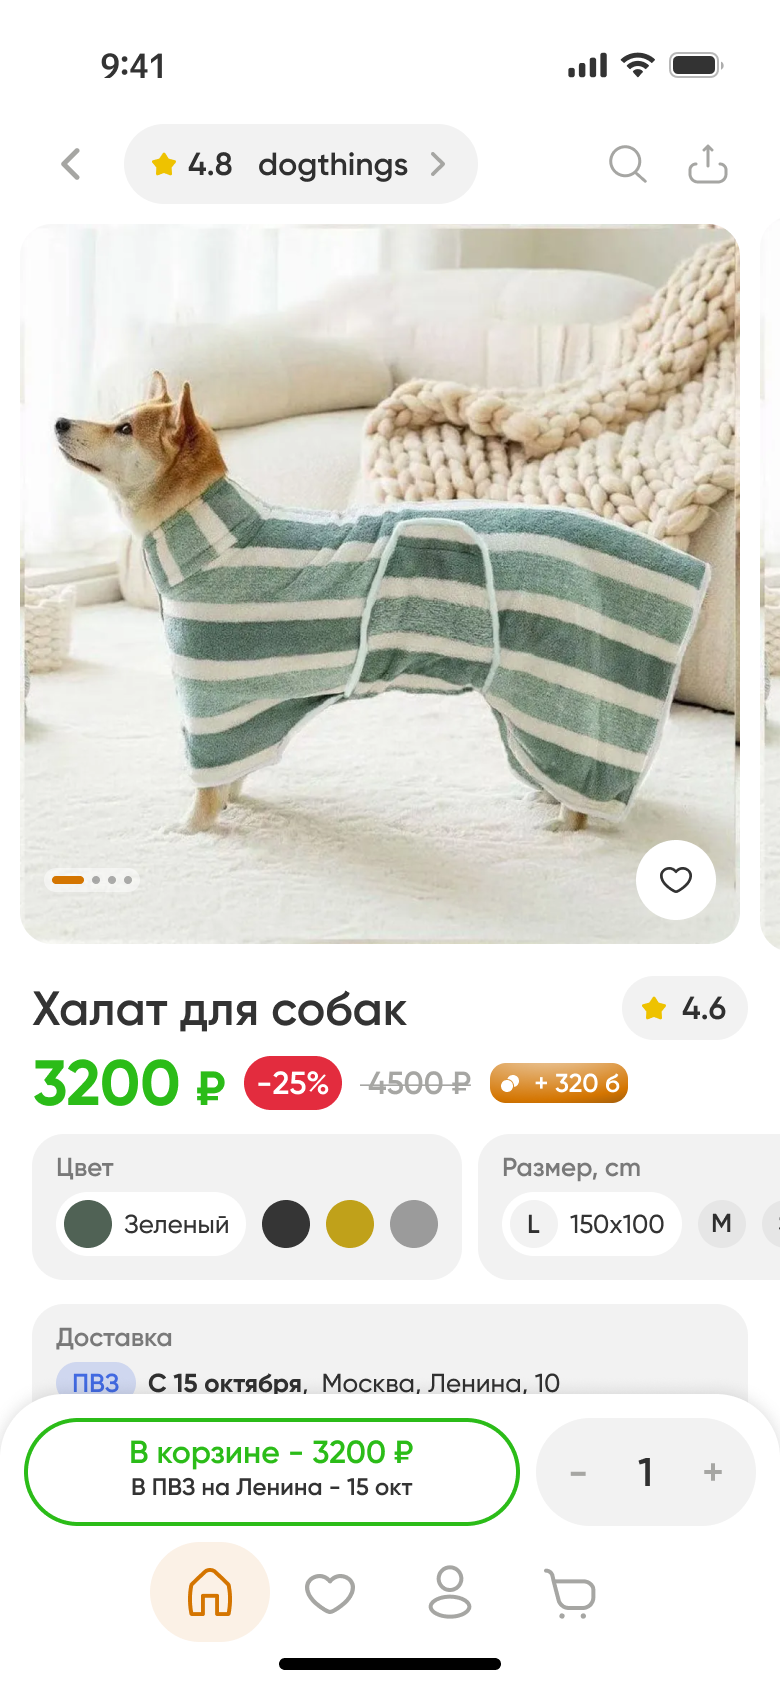
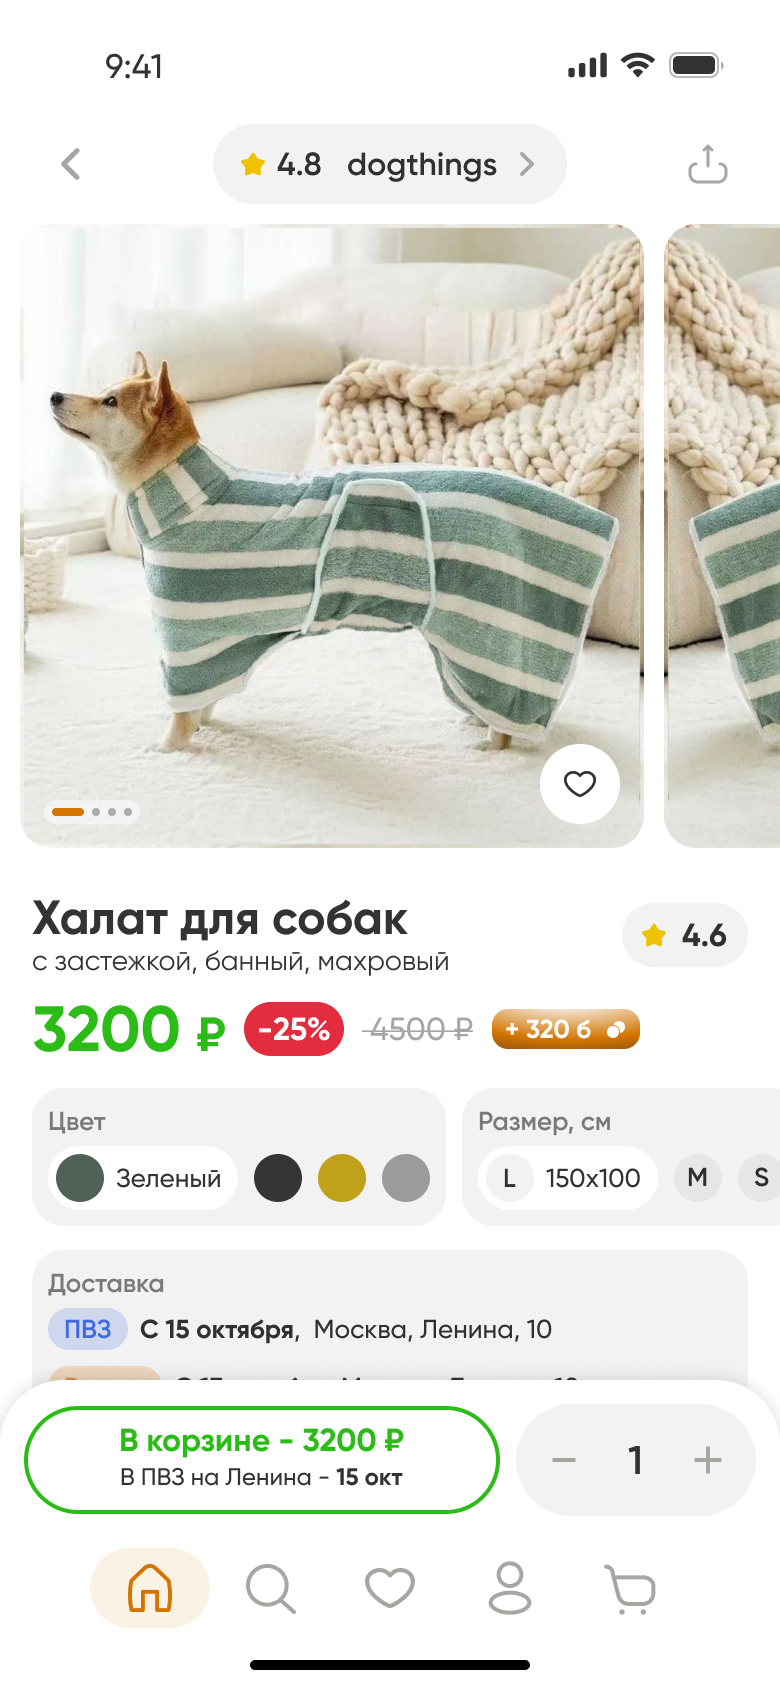
Refine UI concepts gallery

diff --git a/index.html b/index.html
@@ -32,7 +32,7 @@
       .site-loader{position:fixed;inset:0;z-index:10000;display:grid;place-items:center;background:#fff;color:#090909;transition:opacity .75s ease,visibility .75s ease}.site-loader__inner{position:relative;width:min(360px,92vw);aspect-ratio:1}.site-loader__orbit{position:absolute;inset:0;transform-origin:50% 50%}.site-loader__dot{position:absolute;top:50%;left:50%;width:var(--size);height:var(--size);margin:calc(var(--size)/-2);transform:translate(var(--x),var(--y));transition:transform .78s cubic-bezier(.4,0,.15,1)}.site-loader__dot i{display:block;width:100%;height:100%;border-radius:50%;background:#050505;animation:loader-dot-float var(--speed) ease-in-out var(--delay) infinite alternate}.site-loader__dot:nth-child(1){--size:9px;--x:-118px;--y:-80px;--speed:1.7s;--delay:-.5s}.site-loader__dot:nth-child(2){--size:7px;--x:-64px;--y:-116px;--speed:2.2s;--delay:-1.1s}.site-loader__dot:nth-child(3){--size:13px;--x:6px;--y:-78px;--speed:1.9s;--delay:-.2s}.site-loader__dot:nth-child(4){--size:16px;--x:112px;--y:-94px;--speed:2.4s;--delay:-1.6s}.site-loader__dot:nth-child(5){--size:12px;--x:92px;--y:17px;--speed:1.8s;--delay:-.8s}.site-loader__dot:nth-child(6){--size:11px;--x:93px;--y:104px;--speed:2.1s;--delay:-1.4s}.site-loader__dot:nth-child(7){--size:7px;--x:10px;--y:139px;--speed:1.6s;--delay:-.3s}.site-loader__dot:nth-child(8){--size:15px;--x:-91px;--y:113px;--speed:2.3s;--delay:-1.8s}.site-loader__dot:nth-child(9){--size:9px;--x:-137px;--y:30px;--speed:1.9s;--delay:-.9s}.site-loader__dot:nth-child(10){--size:7px;--x:-151px;--y:-17px;--speed:2.5s;--delay:-1.2s}.site-loader__copy{position:absolute;inset:0;display:flex;flex-direction:column;align-items:center;justify-content:center;gap:10px;text-align:center}.site-loader__label{font:400 clamp(20px,2.2vw,28px)/1.2 Manrope,Arial,sans-serif;transition:opacity .3s ease,transform .3s ease}.site-loader__value{font:800 clamp(25px,2.6vw,34px)/1 Machina,Manrope,Arial,sans-serif;letter-spacing:-.04em}.site-loader.is-complete .site-loader__copy{gap:0}.site-loader.is-complete .site-loader__label{position:absolute;opacity:0;transform:translateY(-5px)}.site-loader.is-complete .site-loader__orbit{animation:loader-orbit-spin 1.35s linear .72s infinite}.site-loader.is-complete .site-loader__dot:nth-child(1){transform:rotate(0deg) translateY(-86px)}.site-loader.is-complete .site-loader__dot:nth-child(2){transform:rotate(36deg) translateY(-86px)}.site-loader.is-complete .site-loader__dot:nth-child(3){transform:rotate(72deg) translateY(-86px)}.site-loader.is-complete .site-loader__dot:nth-child(4){transform:rotate(108deg) translateY(-86px)}.site-loader.is-complete .site-loader__dot:nth-child(5){transform:rotate(144deg) translateY(-86px)}.site-loader.is-complete .site-loader__dot:nth-child(6){transform:rotate(180deg) translateY(-86px)}.site-loader.is-complete .site-loader__dot:nth-child(7){transform:rotate(216deg) translateY(-86px)}.site-loader.is-complete .site-loader__dot:nth-child(8){transform:rotate(252deg) translateY(-86px)}.site-loader.is-complete .site-loader__dot:nth-child(9){transform:rotate(288deg) translateY(-86px)}.site-loader.is-complete .site-loader__dot:nth-child(10){transform:rotate(324deg) translateY(-86px)}.site-loader.is-complete .site-loader__dot i{animation:none}.site-loader.is-hidden{opacity:0;visibility:hidden;pointer-events:none}.js body.is-loading{overflow:hidden}@keyframes loader-dot-float{from{transform:translate(-8px,-5px)}to{transform:translate(9px,7px)}}@keyframes loader-orbit-spin{to{transform:rotate(360deg)}}@media(max-width:520px){.site-loader__inner{width:min(310px,92vw)}.site-loader.is-complete .site-loader__dot{--loader-radius:72px}.site-loader.is-complete .site-loader__dot:nth-child(n){transform:rotate(calc((var(--dot-index,1) - 1)*36deg)) translateY(-72px)}}@media(prefers-reduced-motion:reduce){.site-loader,.site-loader__dot{transition:none}.site-loader__dot i,.site-loader.is-complete .site-loader__orbit{animation:none}}
     </style>
     <script defer src="./src/loader.js?v=3"></script>
-    <link rel="stylesheet" href="./src/style.css?v=67" />
+    <link rel="stylesheet" href="./src/style.css?v=75" />
     <title>Леонид Зуев — продуктовый дизайнер</title>
 
     <script defer src="./src/cookie-consent.js?v=1"></script>
@@ -109,8 +109,9 @@
         <section class="portfolio-panel" id="portfolio" aria-label="Работы">
           <div class="portfolio-tabs" role="tablist" aria-label="Разделы работ">
             <button class="is-active" id="portfolio-cases-tab" type="button" role="tab" aria-selected="true" aria-controls="portfolio-cases" data-work-tab="cases">Кейсы</button>
-            <button id="portfolio-shots-tab" type="button" role="tab" aria-selected="false" aria-controls="portfolio-shots" data-work-tab="shots">Шоты</button>
+            <button id="portfolio-shots-tab" type="button" role="tab" aria-selected="false" aria-controls="portfolio-shots" data-work-tab="shots">UI концепты</button>
           </div>
+          <div class="portfolio-stage">
           <div class="portfolio-content" id="portfolio-cases" role="tabpanel" aria-labelledby="portfolio-cases-tab" data-work-panel="cases">
           <div class="work-grid">
             <a class="work-card work-card--origin reveal" href="./origin-case/">
@@ -139,21 +140,22 @@
           <div class="portfolio-content shots-panel" id="portfolio-shots" role="tabpanel" aria-labelledby="portfolio-shots-tab" data-work-panel="shots" hidden>
             <div class="shots-grid">
               <article class="shot-card">
-                <figure class="shot-card__media"><img src="./public/work/shots/running-analytics.png" alt="Экран аналитики приложения Running app" loading="lazy" decoding="async" /><figcaption class="shot-card__overlay"><p>Running app · Analytics</p><button type="button" data-shot-src="./public/work/shots/running-analytics.png" data-shot-alt="Экран аналитики приложения Running app">Рассмотреть <span>↗</span></button></figcaption></figure>
+                <figure class="shot-card__media"><img src="./public/work/shots/running-analytics.png" alt="Экран аналитики приложения Running app" loading="lazy" decoding="async" /><figcaption class="shot-card__overlay"><p>Running app · Analytics</p><button type="button" data-shot-src="./public/work/shots/running-analytics.png" data-shot-alt="Экран аналитики приложения Running app">Рассмотреть <img class="shot-button__icon" src="./public/icons/shot-arrow-top-right.svg" alt="" aria-hidden="true" /></button></figcaption></figure>
               </article>
               <article class="shot-card">
-                <figure class="shot-card__media"><img src="./public/work/shots/coffee-main-screen.png" alt="Главный экран приложения Coffe app" loading="lazy" decoding="async" /><figcaption class="shot-card__overlay"><p>Coffe app · Main screen</p><button type="button" data-shot-src="./public/work/shots/coffee-main-screen.png" data-shot-alt="Главный экран приложения Coffe app">Рассмотреть <span>↗</span></button></figcaption></figure>
+                <figure class="shot-card__media"><img src="./public/work/shots/coffee-main-screen.png" alt="Главный экран приложения Coffe app" loading="lazy" decoding="async" /><figcaption class="shot-card__overlay"><p>Coffe app · Main screen</p><button type="button" data-shot-src="./public/work/shots/coffee-main-screen.png" data-shot-alt="Главный экран приложения Coffe app">Рассмотреть <img class="shot-button__icon" src="./public/icons/shot-arrow-top-right.svg" alt="" aria-hidden="true" /></button></figcaption></figure>
               </article>
               <article class="shot-card">
-                <figure class="shot-card__media"><img src="./public/work/shots/manager-requests.png" alt="Экран заявок личного кабинета менеджера" loading="lazy" decoding="async" /><figcaption class="shot-card__overlay"><p>Manager account · Requests</p><button type="button" data-shot-src="./public/work/shots/manager-requests.png" data-shot-alt="Экран заявок личного кабинета менеджера">Рассмотреть <span>↗</span></button></figcaption></figure>
+                <figure class="shot-card__media"><img src="./public/work/shots/manager-requests.png" alt="Экран заявок личного кабинета менеджера" loading="lazy" decoding="async" /><figcaption class="shot-card__overlay"><p>Manager account · Requests</p><button type="button" data-shot-src="./public/work/shots/manager-requests.png" data-shot-alt="Экран заявок личного кабинета менеджера">Рассмотреть <img class="shot-button__icon" src="./public/icons/shot-arrow-top-right.svg" alt="" aria-hidden="true" /></button></figcaption></figure>
               </article>
               <article class="shot-card">
-                <figure class="shot-card__media"><img src="./public/work/shots/ymarket-game-concept.png" alt="Игровой концепт приложения YMarket" loading="lazy" decoding="async" /><figcaption class="shot-card__overlay"><p>YMarket · Game concept</p><button type="button" data-shot-src="./public/work/shots/ymarket-game-concept.png" data-shot-alt="Игровой концепт приложения YMarket">Рассмотреть <span>↗</span></button></figcaption></figure>
+                <figure class="shot-card__media"><img src="./public/work/shots/ymarket-game-concept.png" alt="Игровой концепт приложения YMarket" loading="lazy" decoding="async" /><figcaption class="shot-card__overlay"><p>YMarket · Game concept</p><button type="button" data-shot-src="./public/work/shots/ymarket-game-concept.png" data-shot-alt="Игровой концепт приложения YMarket">Рассмотреть <img class="shot-button__icon" src="./public/icons/shot-arrow-top-right.svg" alt="" aria-hidden="true" /></button></figcaption></figure>
               </article>
               <article class="shot-card">
-                <figure class="shot-card__media"><img src="./public/work/shots/marketplace-product-card.png" alt="Карточка товара в мобильном маркетплейсе" loading="lazy" decoding="async" /><figcaption class="shot-card__overlay"><p>Marketplace · Product card page</p><button type="button" data-shot-src="./public/work/shots/marketplace-product-card.png" data-shot-alt="Карточка товара в мобильном маркетплейсе">Рассмотреть <span>↗</span></button></figcaption></figure>
+                <figure class="shot-card__media"><img src="./public/work/shots/marketplace-product-card.png" alt="Карточка товара в мобильном маркетплейсе" loading="lazy" decoding="async" /><figcaption class="shot-card__overlay"><p>Marketplace · Product card page</p><button type="button" data-shot-src="./public/work/shots/marketplace-product-card.png" data-shot-alt="Карточка товара в мобильном маркетплейсе">Рассмотреть <img class="shot-button__icon" src="./public/icons/shot-arrow-top-right.svg" alt="" aria-hidden="true" /></button></figcaption></figure>
               </article>
             </div>
+          </div>
           </div>
         </section>
 

diff --git a/src/style.css b/src/style.css
@@ -390,8 +390,8 @@ footer{font-size:16px}
 
 /* UI shots gallery. */
 .shots-panel{min-height:0;border:0;background:transparent;display:block}
-.shots-grid{display:grid;grid-template-columns:repeat(5,minmax(0,1fr));gap:16px;width:100%}
-.shot-card{min-width:0}
+.shots-grid{display:grid;grid-template-columns:repeat(4,minmax(0,1fr));gap:16px;width:100%}
+.shot-card{width:100%;max-width:226px;min-width:0;justify-self:center;border-radius:20px;overflow:hidden}
 .shot-card__media{position:relative;margin:0;border-radius:40px;overflow:hidden}
 .shot-card__media img{display:block;width:100%;height:auto;object-fit:contain}
 .shot-card__overlay{position:absolute;inset:0;display:flex;flex-direction:column;justify-content:flex-end;align-items:flex-start;gap:12px;padding:48px 18px 18px;background:linear-gradient(transparent 38%,rgba(8,8,8,.94));color:#fff;opacity:0;transform:translateY(12px);pointer-events:none;transition:opacity .24s ease,transform .24s ease}
@@ -405,6 +405,28 @@ footer{font-size:16px}
 .shot-lightbox img{width:100%;height:auto;border-radius:40px;object-fit:contain}
 .shot-lightbox__close{position:sticky;z-index:2;top:0;float:right;display:grid;place-items:center;width:40px;height:40px;margin:0 0 -40px;padding:0;border:0;border-radius:50%;background:rgba(17,17,17,.82);color:#fff;font-size:26px;line-height:1;cursor:pointer}
 @media(max-width:1200px){.shots-grid{grid-template-columns:repeat(4,minmax(0,1fr))}}
-@media(max-width:1080px){.shots-grid{grid-template-columns:repeat(3,minmax(0,1fr))}}
+@media(max-width:900px){.shots-grid{grid-template-columns:repeat(3,minmax(0,1fr))}}
 @media(max-width:720px){.shots-grid{grid-template-columns:repeat(2,minmax(0,1fr));gap:8px}.shot-card__media{border-radius:40px}.shot-card__overlay{gap:8px;padding:34px 10px 10px}.shot-card__overlay p{font-size:11px}.shot-card__overlay button{min-height:32px;padding:0 10px;font-size:10px}}
 @media(hover:none){.shot-card__overlay{opacity:1;transform:none;pointer-events:auto}}
+
+/* Keep both portfolio tabs as tall as the cases grid. */
+.portfolio-stage{position:relative;min-width:0}
+.portfolio-stage>#portfolio-cases[hidden]{display:block;visibility:hidden;pointer-events:none}
+.portfolio-stage>.shots-panel{position:absolute;inset:0;min-height:0;overflow:hidden}
+.portfolio-stage>.shots-panel[hidden]{display:block;visibility:hidden;pointer-events:none}
+
+/* UI concepts cards. */
+.shot-card__media{aspect-ratio:780/1694;border-radius:0;background:#fff}
+.shot-card__media>img{width:100%;height:100%;object-fit:contain}
+.shot-card__overlay{justify-content:flex-end;align-items:center;padding:18px;border-radius:0;text-align:center;background:linear-gradient(180deg,transparent 38%,rgba(8,8,8,.94))}
+.shot-card__overlay p{max-width:20ch;font-size:14px}
+.shot-card__overlay button{gap:6px;font-size:14px}
+.shot-card__overlay button .shot-button__icon{display:block;width:18px;height:18px;flex:0 0 18px;object-fit:contain}
+.shot-lightbox,.shot-lightbox img{border-radius:24px}
+
+@media(max-width:720px){
+  .shot-card{border-radius:20px}
+  .shot-card__media{border-radius:0}
+  .shot-card__overlay{justify-content:flex-end;align-items:center;padding:10px}
+  .shot-lightbox,.shot-lightbox img{border-radius:12px}
+}

diff --git a/sw.js b/sw.js
@@ -1,8 +1,8 @@
-const CACHE_NAME = 'leonid-portfolio-v23';
+const CACHE_NAME = 'leonid-portfolio-v31';
 const SHELL = [
   './',
   './index.html',
-  './src/style.css?v=67',
+  './src/style.css?v=75',
   './src/main.js?v=51',
   './src/audio.js?v=15',
   './src/typography.js?v=1',
